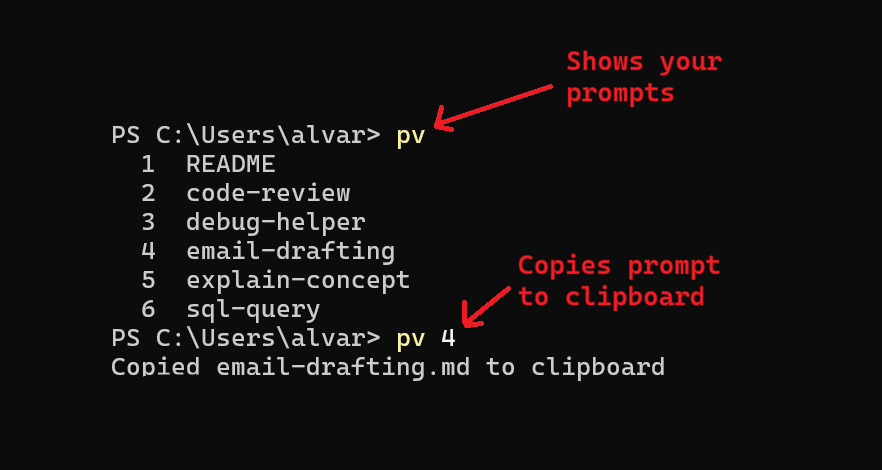
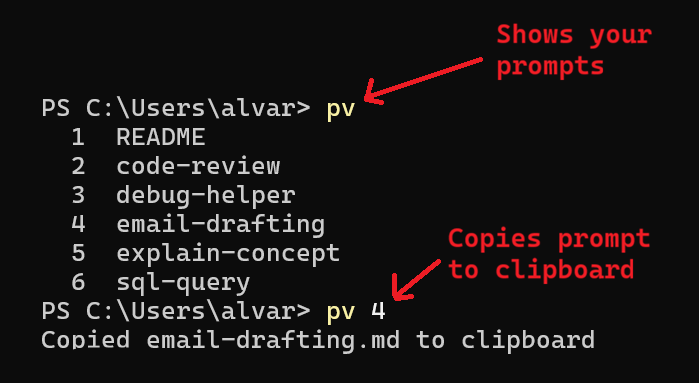
Update README and usage screenshot

diff --git a/README.md b/README.md
@@ -2,19 +2,33 @@
   <img src="assets/logo.png" alt="Pocket Vault" width="400">
 </p>
 
-A Python CLI for managing your LLM prompts, stored as `.md` files in a private git repo. That's the whole thing.
+<p align="center">
+  <em>A Python CLI for managing your LLM prompts, stored as <code>.md</code> files in a private git repo.</em>
+  <br>
+  <em>That's the whole thing.</em>
+</p>
 
 <p align="center">
   <img src="assets/usage.png" alt="Pocket Vault usage" width="450">
 </p>
 
-`pv` lists your prompts. `pv <number>` copies one to your clipboard. You paste it into any LLM.
+<p align="center">
+  <code>pv</code> lists your prompts. <code>pv &lt;number&gt;</code> copies one to your clipboard. You paste it into any LLM.
+</p>
 
-It's open source on GitHub and PyPI. The vault is a git repo you own. If the tool stops being maintained tomorrow, you still have a folder of text files and a few hundred lines of Python you can read, fork, or replace. Nothing proprietary holds your data.
+<p align="center">
+  <a href="https://pypi.org/project/pocket-vault/"><img src="https://img.shields.io/pypi/v/pocket-vault?color=blue&logo=pypi&logoColor=white" alt="PyPI"></a>
+  <a href="https://github.com/DKeAlvaro/pocket-vault/blob/main/LICENSE"><img src="https://img.shields.io/github/license/DKeAlvaro/pocket-vault?color=green" alt="License"></a>
+  <a href="https://github.com/DKeAlvaro/pocket-vault"><img src="https://img.shields.io/github/stars/DKeAlvaro/pocket-vault?style=social" alt="GitHub Stars"></a>
+</p>
 
-Everything is transparent. You see your prompts as plain files. You see exactly what you're about to paste. You decide what enters the LLM's context. There's no hidden system injecting instructions, no agent-specific config, no opaque skill loading. The file is the prompt. The paste is the paste.
+---
 
-Nothing is bolted on. No MCP server, no plugin architecture, no SaaS, no API key, no account. Pocket Vault is a CLI, a git repo, and `.md` files, three primitives that have been around for decades and will outlive any platform shift. Your prompts survive because they were never locked into one.
+**It's open source on GitHub and PyPI.** The vault is a git repo you own. If the tool stops being maintained tomorrow, you still have a folder of text files and a few hundred lines of Python you can read, fork, or replace. Nothing proprietary holds your data.
+
+**Everything is transparent.** You see your prompts as plain files. You see exactly what you're about to paste. You decide what enters the LLM's context. There's no hidden system injecting instructions, no agent-specific config, no opaque skill loading. The file is the prompt. The paste is the paste.
+
+**Nothing is bolted on.** No MCP server, no plugin architecture, no SaaS, no API key, no account. Pocket Vault is a CLI, a git repo, and `.md` files, three primitives that have been around for decades and will outlive any platform shift. Your prompts survive because they were never locked into one.
 
 ## Quick start
 